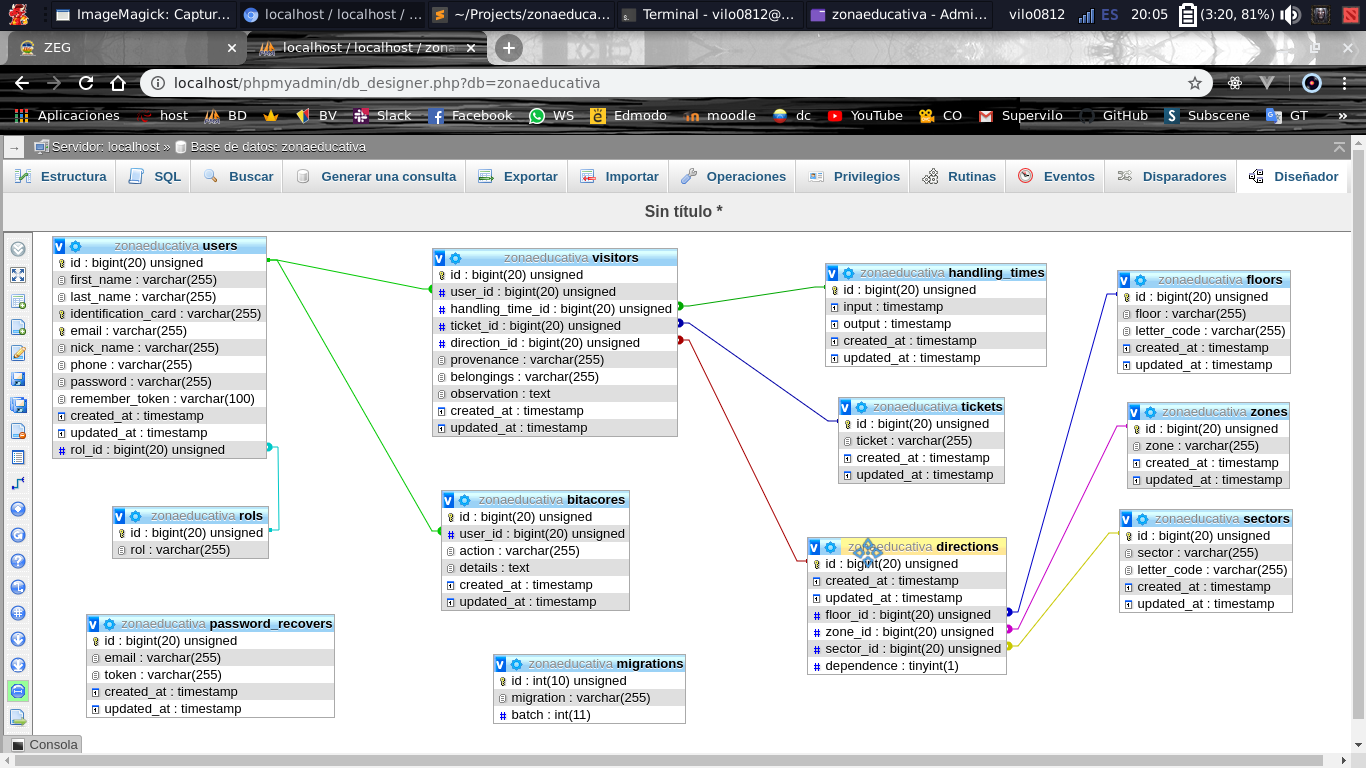
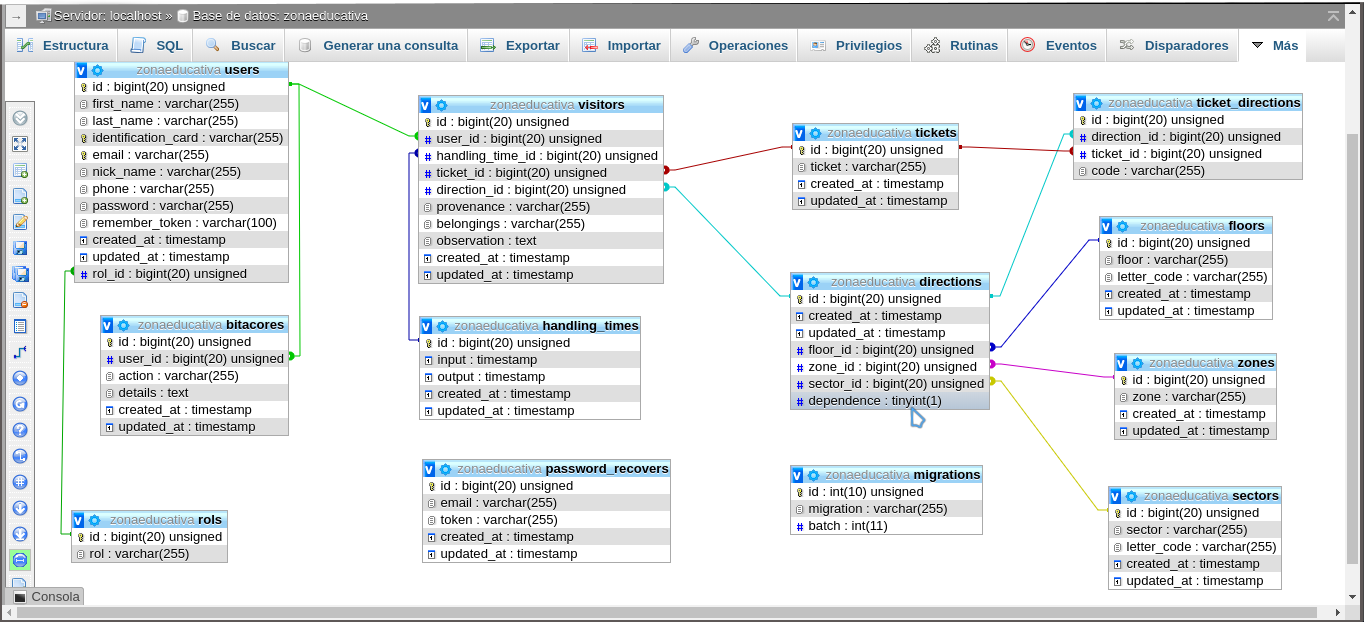
agregamos la tabla ticket_directions

diff --git a/resources/js/views/ShowAdmin.vue b/resources/js/views/ShowAdmin.vue
@@ -127,7 +127,7 @@ export default {
   methods: {
     go(){
       /*start llamamos al api que nos trae toda la informacion de este usuario*/
-    let url=`/api/showUser/` + this.id;
+    let url=`/api/showUser/axios` + this.id;
     axios.get(url).then(res => {
       this.administrador=res.data.user
     }).catch(err => {

diff --git a/app/Http/Controllers/TicketController.php b/app/Http/Controllers/TicketController.php
@@ -2,12 +2,56 @@
 
 namespace App\Http\Controllers;
 
+use App\Direction;
+use App\Http\Controllers\Controller;
 use App\Ticket;
 use Illuminate\Http\Request;
+use Illuminate\Support\Facades\App;
+use Illuminate\Support\Facades\Hash;
 
 class TicketController extends Controller
 {
     public function show(){
     	return Ticket::get(['id','ticket']);
+    }
+    // start tickets solicitado
+    public function ticket($id){
+        $data = $this->getInfoTicket($id);
+        $pdf = App::make('dompdf.wrapper');
+        $pdf->setPaper('a4');
+        $pdf->loadView('pdf.ticket',compact('data'));
+        return $pdf->stream();
+    }
+    // end tickets solicitado
+    // start informacion del ticket
+    public function getInfoTicket($id){
+        $dir = Direction::findOrFail($id);
+        $floor = $dir->floor->floor;
+        $zone = $dir->zone->zone;
+        $sector = $dir->sector->letter_code;
+        $mensajeMin = $floor . ' - ' . $zone . ' - '. $sector;
+        $mensaje = strtoupper($mensajeMin);
+        return $mensaje;
+    }
+    // end informacion del ticket
+    //start sacar la informacion del ticket
+    public function checkCodeTicket (Request $request){
+    decrypt($request->code);
+    $cript = bcrypt($request->codeOne);
+    if(Hash::check($request->codeTwo, $cript)){
+        return 'funciona wey ;v';
+    }else{  
+        return 'no funciona wey :(';
+    }
+    // $encrupt = encrypt('hola');
+    // $encrupt = decrypt($encrupt);
+    }
+    //end sacar la informacion del ticket
+    // start funcion que permite sacar el codigo
+    public function getCodeTicket(){
+    // $obj = new Controller();
+    // return $obj->token(3);
+
+    
     }
 }

diff --git a/resources/views/pdf/ticket.blade.php b/resources/views/pdf/ticket.blade.php
@@ -1,0 +1,57 @@
+<!DOCTYPE html>
+<html lang="{{ str_replace('_', '-', app()->getLocale()) }}">
+<head>
+
+	<meta charset="UTF-8">
+	<title>ticket</title>
+    <style>
+        .container{
+        border: 1px black solid;
+        border-radius: 50%;
+        width: 350px;
+        margin:auto;
+        }
+        .header{
+        border-bottom: 1px black solid;
+        height: 50px;
+        background: red;
+        }
+        .main{
+        width: 250px;
+        margin: auto;
+        }
+        .centerImg{
+        width: 100%;
+        }
+        .centerCode{
+        text-align: center;
+        }
+        .items{
+        width: 60%;
+        margin:auto;
+        }
+        .logo-img {
+        width: 50px;
+        margin:0px 10px;
+        }
+    </style>
+</head>
+<body>
+    <div class="container">
+        <div class="header">
+            
+        </div>
+        <div class="main">
+            <img class="centerImg" src="images/icons/zeg.png" alt="">
+            <h3 class="centerCode">{{$data}}</h3>
+        </div>
+        <div class="footer">
+            <div class="items">
+                <img src="images/icons/GobiernoBolivarianoVenezolano.png" alt="logo ministerio" class="logo-img">
+                <img src="images/icons/mppe.png" alt="logo gobernación" class="logo-img">
+                <img src="images/icons/zeg.png" alt="logo zona educativa guarico" class="logo-img">
+            </div>
+    </div>
+    </div>
+</body>
+</html>

diff --git a/app/Direction.php b/app/Direction.php
@@ -3,7 +3,9 @@
 namespace App;
 
 use App\Direction;
-use App\sector;
+use App\Floor;
+use App\Sector;
+use App\Zone;
 use Illuminate\Database\Eloquent\Model;
 
 class Direction extends Model
@@ -33,7 +35,17 @@ class Direction extends Model
         /*end api que permite ver las zonas y sectores dependiendo de el id del piso*/
     /*start api que permite ver el sector de cada zona*/
     public function sector(){
-      return $this->belongsTo(sector::class);
+      return $this->belongsTo(Sector::class);
     }
     /*end api que permite ver el sector de cada zona*/
+    /*start api que permite ver los pisos del edificio*/
+    public function floor(){
+      return $this->belongsTo(Floor::class);
+    }
+    /*end api que permite ver los pisos del edificio*/
+    /*start api que permite ver las zonas del edificio*/
+    public function zone(){
+      return $this->belongsTo(Zone::class);
+    }
+    /*end api que permite ver las zonas del edificio*/
 }

diff --git a/database/migrations/2020_05_15_212351_add_direction_id_to_ticket_directions_table.php b/database/migrations/2020_05_15_212351_add_direction_id_to_ticket_directions_table.php
@@ -1,0 +1,34 @@
+<?php
+
+use Illuminate\Support\Facades\Schema;
+use Illuminate\Database\Schema\Blueprint;
+use Illuminate\Database\Migrations\Migration;
+
+class AddDirectionIdToTicketDirectionsTable extends Migration
+{
+    /**
+     * Run the migrations.
+     *
+     * @return void
+     */
+    public function up()
+    {
+        Schema::table('ticket_directions', function (Blueprint $table) {
+             $table->bigInteger('direction_id')->after('id')->unsigned()->nullable();
+            $table->foreign('direction_id')->references('id')->on('directions')->onDelete('cascade');
+        });
+    }
+
+    /**
+     * Reverse the migrations.
+     *
+     * @return void
+     */
+    public function down()
+    {
+        Schema::table('ticket_directions', function (Blueprint $table) {
+            $table->dropForeign(['direction_id']);
+            $table->dropColumn('direction_id');
+        });
+    }
+}

diff --git a/database/migrations/2020_05_15_214545_add_ticket_id_to_ticket_directions_table.php b/database/migrations/2020_05_15_214545_add_ticket_id_to_ticket_directions_table.php
@@ -1,0 +1,34 @@
+<?php
+
+use Illuminate\Support\Facades\Schema;
+use Illuminate\Database\Schema\Blueprint;
+use Illuminate\Database\Migrations\Migration;
+
+class AddTicketIdToTicketDirectionsTable extends Migration
+{
+    /**
+     * Run the migrations.
+     *
+     * @return void
+     */
+    public function up()
+    {
+        Schema::table('ticket_directions', function (Blueprint $table) {
+            $table->bigInteger('ticket_id')->after('direction_id')->unsigned()->nullable();
+            $table->foreign('ticket_id')->references('id')->on('tickets')->onDelete('cascade');
+        });
+    }
+
+    /**
+     * Reverse the migrations.
+     *
+     * @return void
+     */
+    public function down()
+    {
+        Schema::table('ticket_directions', function (Blueprint $table) {
+            $table->dropForeign(['ticket_id']);
+            $table->dropColumn('ticket_id');
+        });
+    }
+}

diff --git a/database/migrations/2020_05_15_212221_create_ticket_directions_table.php b/database/migrations/2020_05_15_212221_create_ticket_directions_table.php
@@ -1,0 +1,31 @@
+<?php
+
+use Illuminate\Support\Facades\Schema;
+use Illuminate\Database\Schema\Blueprint;
+use Illuminate\Database\Migrations\Migration;
+
+class CreateTicketDirectionsTable extends Migration
+{
+    /**
+     * Run the migrations.
+     *
+     * @return void
+     */
+    public function up()
+    {
+        Schema::create('ticket_directions', function (Blueprint $table) {
+            $table->bigIncrements('id');
+            $table->string('code');
+        });
+    }
+
+    /**
+     * Reverse the migrations.
+     *
+     * @return void
+     */
+    public function down()
+    {
+        Schema::dropIfExists('ticket_directions');
+    }
+}

diff --git a/app/Floor.php b/app/Floor.php
@@ -2,6 +2,7 @@
 
 namespace App;
 
+use App\Direction;
 use App\Zone;
 use Illuminate\Database\Eloquent\Model;
 
@@ -12,4 +13,9 @@ class Floor extends Model
         return $this->belongsToMany(Zone::class,'directions');
     }
     /*start relacion entre zones y floors*/
+    /*start relacion con direcciones*/
+    public function direcciones(){
+        return $this->hasMany(Direction::class);
+    }
+    /*end relacion con direcciones*/
 }

diff --git a/routes/web.php b/routes/web.php
@@ -2,6 +2,9 @@
 
 use App\Mail\UsuarioRegistrado;
 use App\User;
+// start ruta para la creacion de tickets
+Route::get('ticket/{id}','TicketController@ticket');
+// end ruta para la creacion de tickets
 /*start api que me permite descargar todas las visitas que se han hecho en el edificio*/
 Route::get('pdfVisits','Controller@downloadPdf');
 		/*end api que me permite descargar todas las visitas que se han hecho en el edificio*/

diff --git a/app/Http/Controllers/Controller.php b/app/Http/Controllers/Controller.php
@@ -2,6 +2,7 @@
 
 namespace App\Http\Controllers;
 
+use App\Direction;
 use App\Http\Requests\LoginFormRequest;
 use App\Http\Requests\RecoverPasswordRequest;
 use App\Password_recover;
@@ -119,4 +120,5 @@ class Controller extends BaseController
     	return $pdf->download();
     }
     /*end api que me permtie descargar los pdfs*/
+    
 }

diff --git a/app/Zone.php b/app/Zone.php
@@ -18,4 +18,9 @@ class Zone extends Model
         return $this->belongsToMany(Sector::class,'directions');
     }
     /*start relacion entre zones y sectores*/
+    /*start relacion con direcciones*/
+    public function direcciones(){
+        return $this->hasMany(Direction::class);
+    }
+    /*end relacion con direcciones*/
 }

diff --git a/routes/api.php b/routes/api.php
@@ -1,6 +1,9 @@
 <?php
 
 use Illuminate\Http\Request;
+// start ticket
+Route::get('ticket','TicketController@getCodeTicket');
+// end ticket
 /*start apis de sesiones*/
 Route::group(['prefix' => 'sesion'], function() {
 	/*start api para iniciar sesion*/
